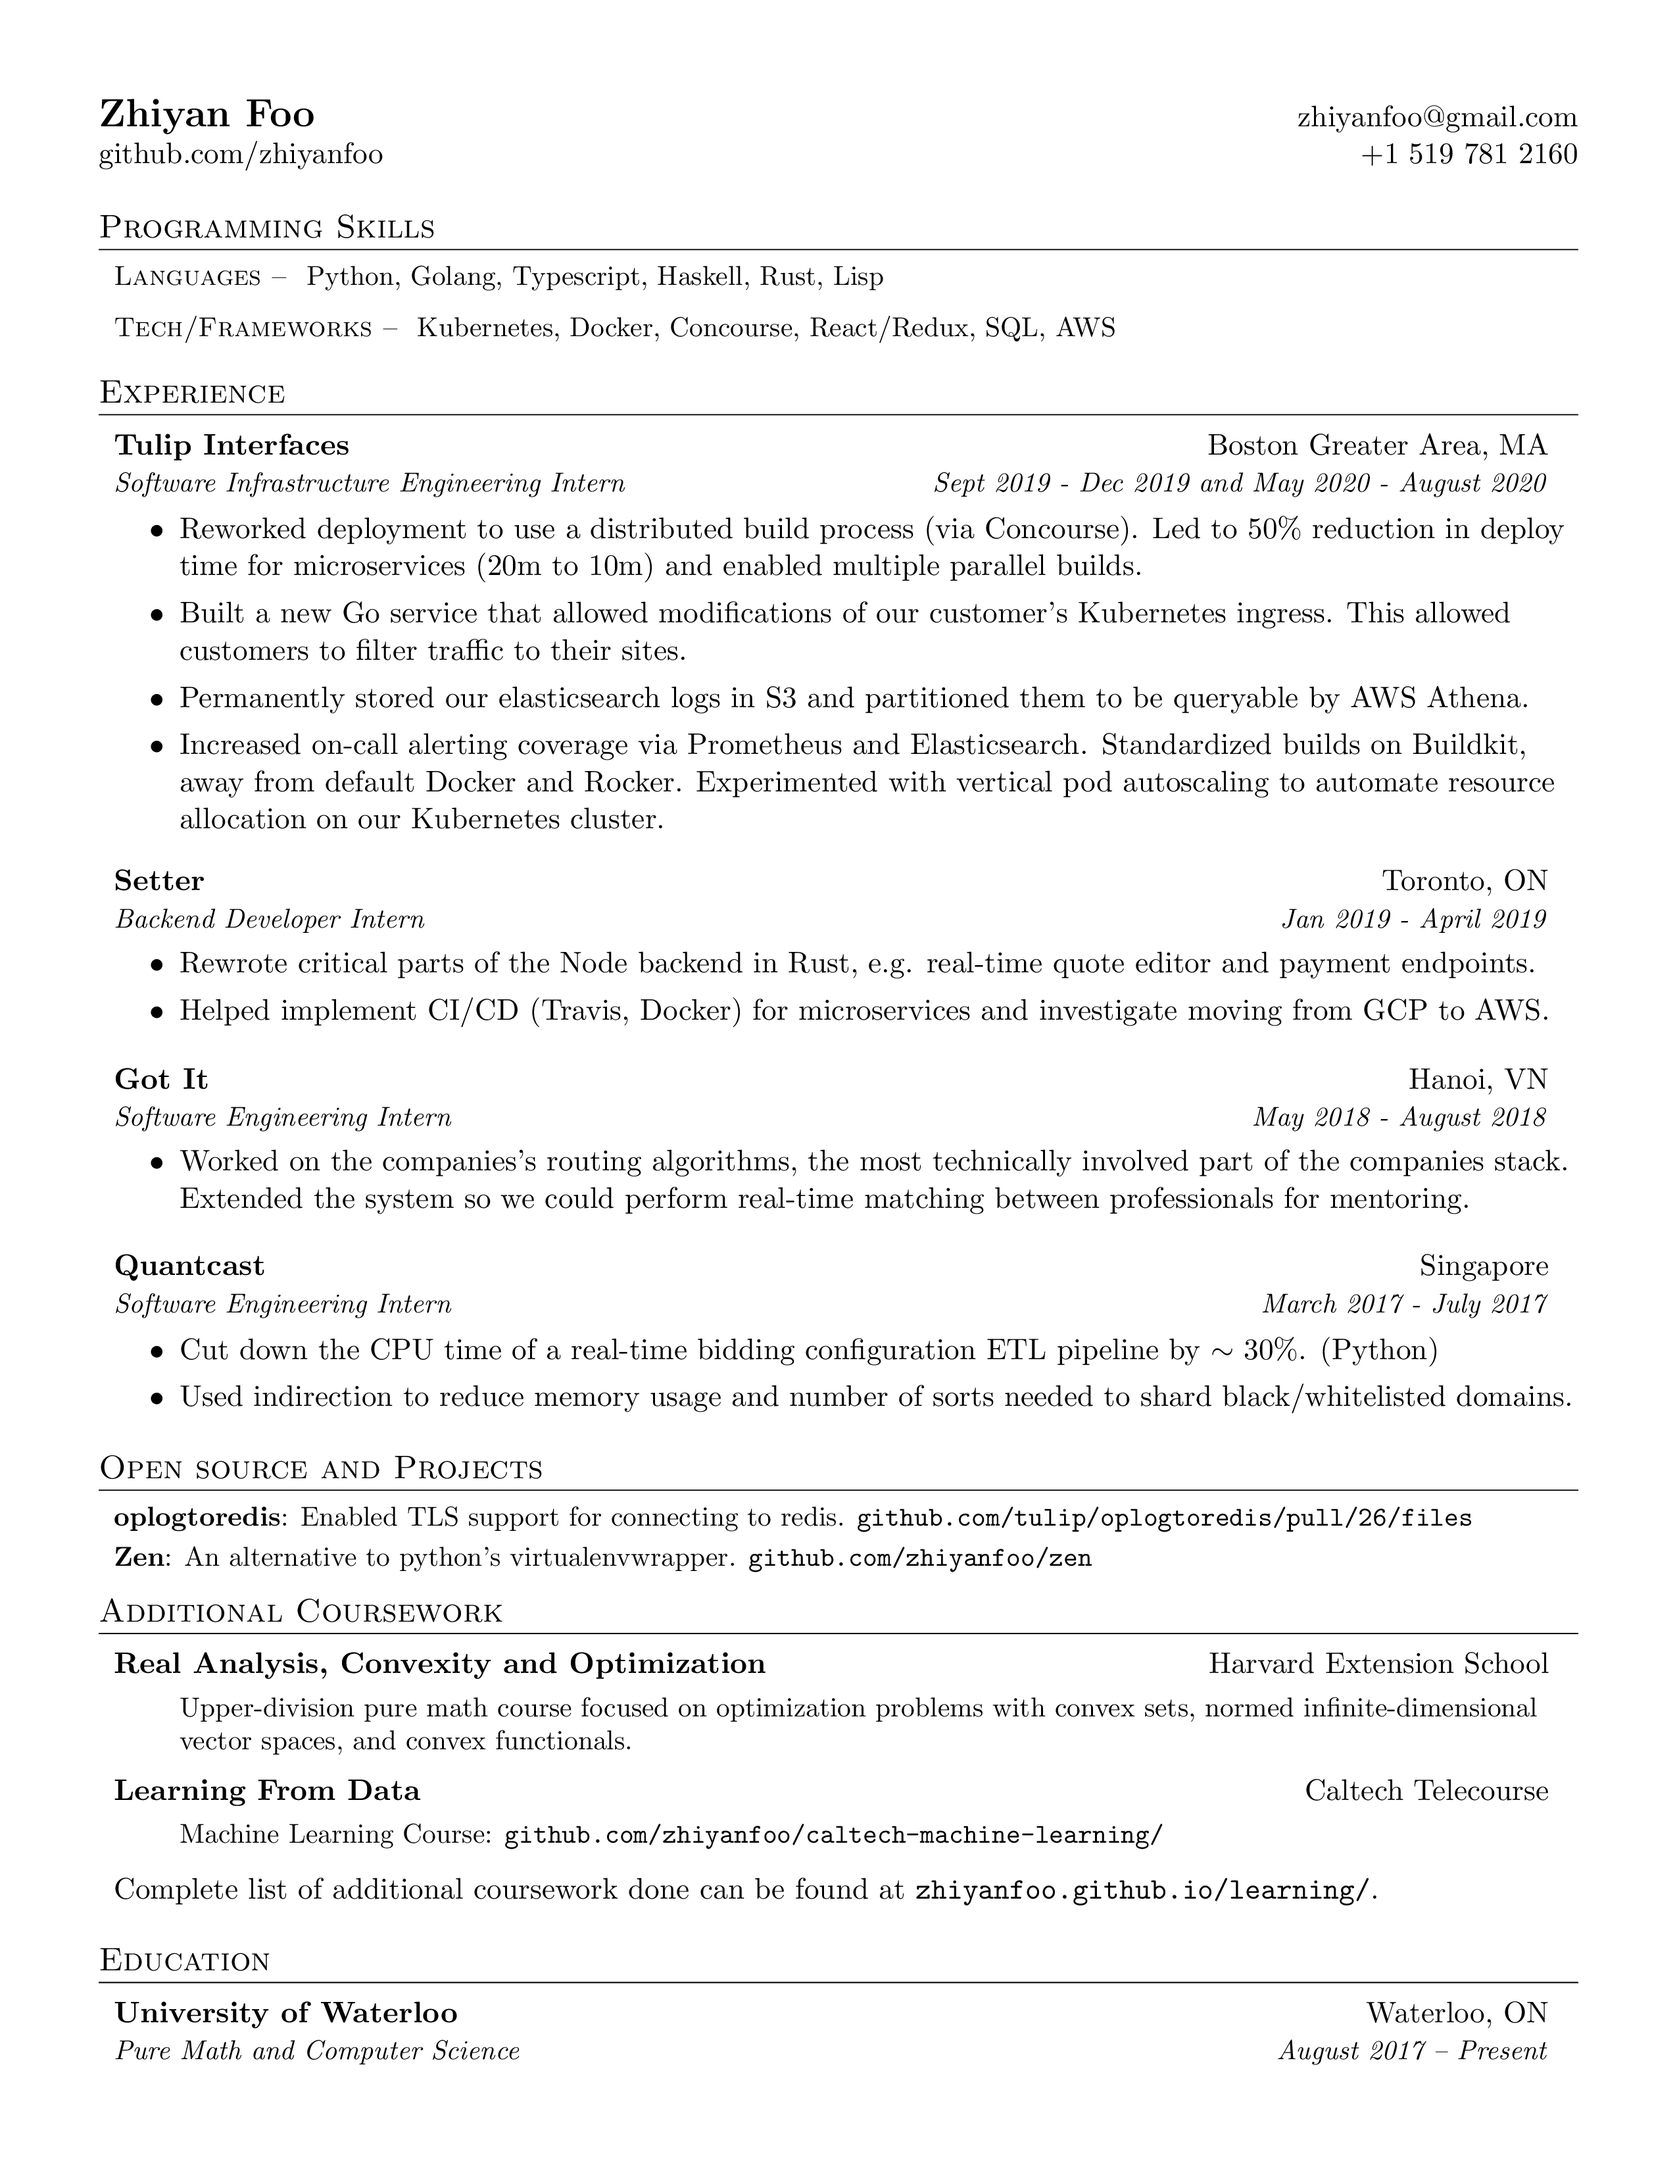
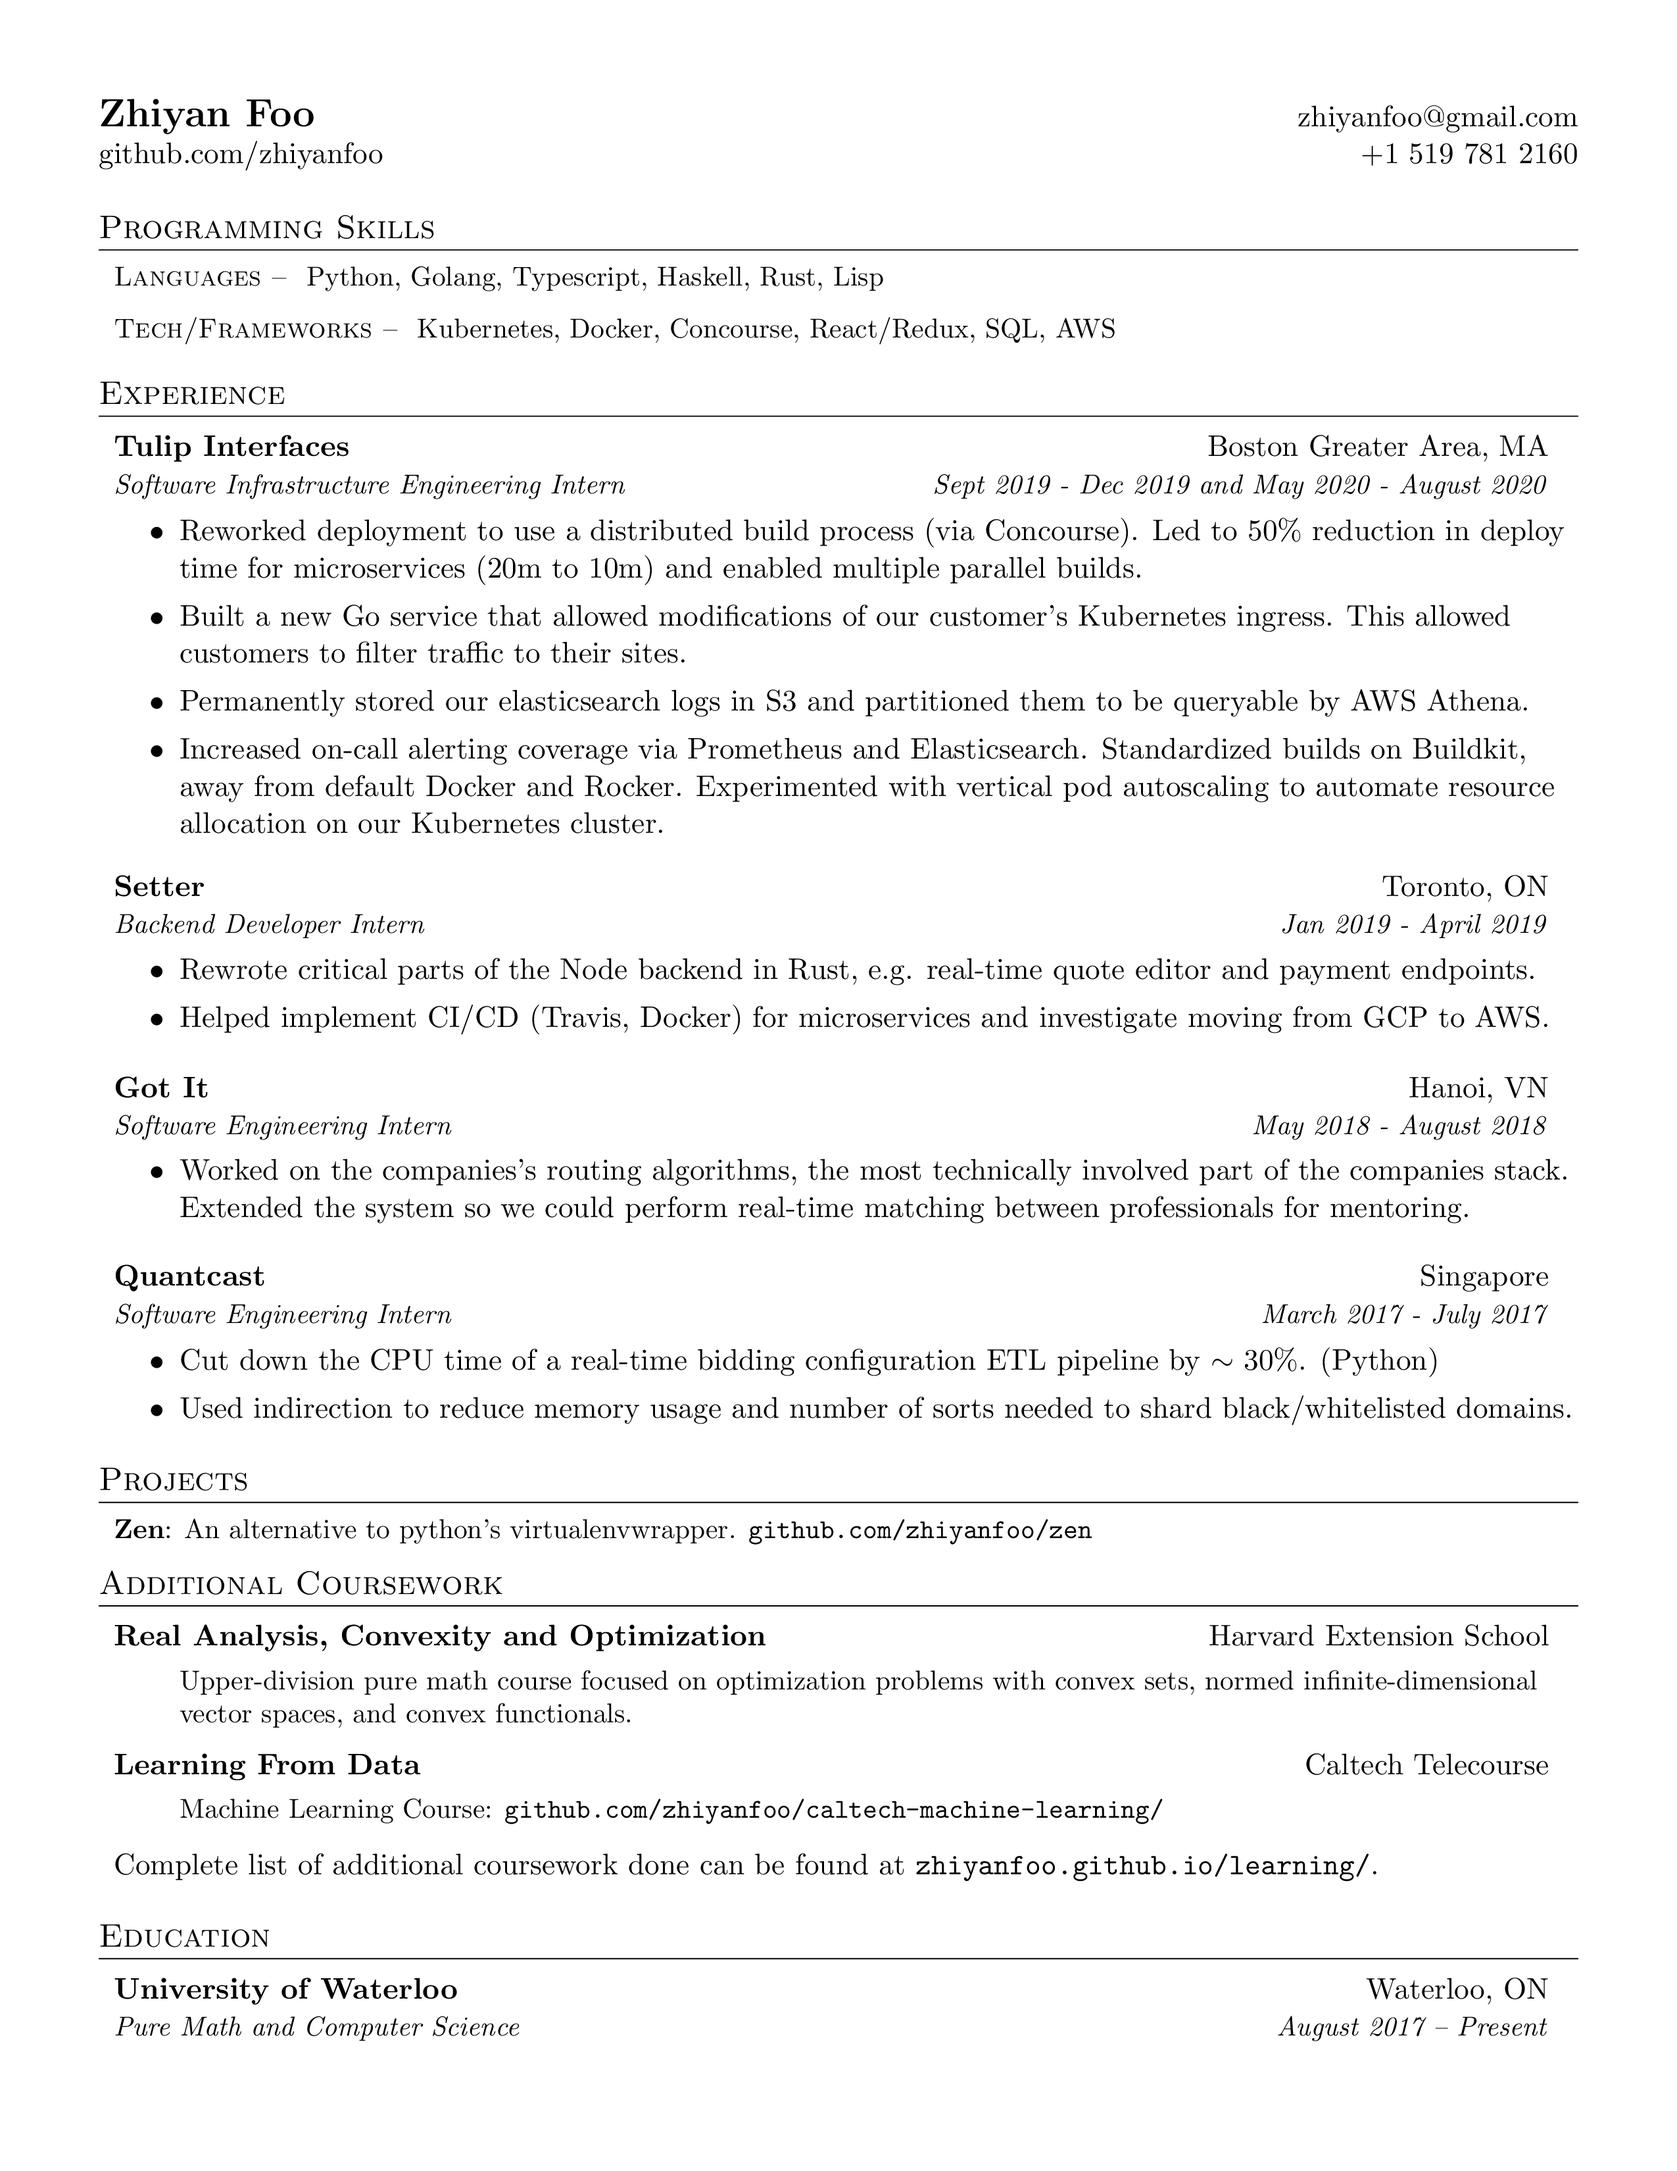
a

diff --git a/resume.tex b/resume.tex
@@ -160,13 +160,8 @@
 %--------------------------------------
 
 %-----------PROJECTS-----------------
-\section{Open source and Projects}
+\section{Projects}
   \resumeSubHeadingListStart
-    \resumeSubItem{oplogtoredis}
-      {Enabled TLS support for connecting to redis.
-            \href{https://github.com/tulip/oplogtoredis/pull/26/files}{\tt
-            github.com/tulip/oplogtoredis/pull/26/files}
-      }
     \resumeSubItem{Zen}
       {An alternative to python's virtualenvwrapper.
             \href{https://github.com/zhiyanfoo/zen}{\tt
